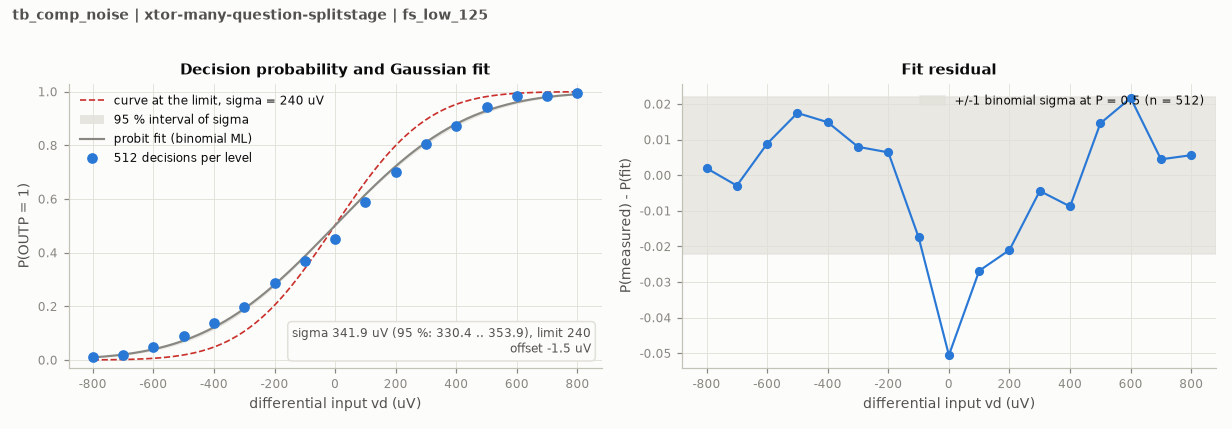
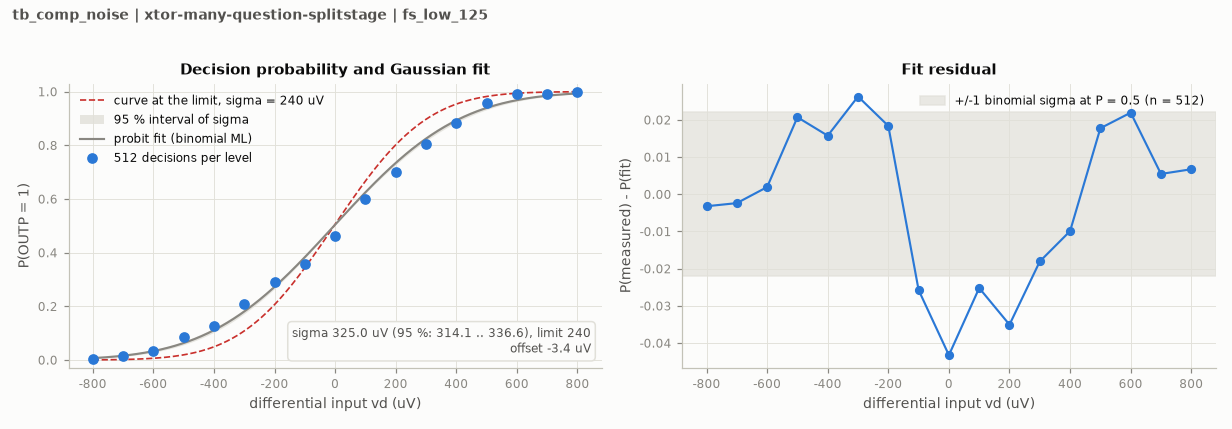
Preserve A6 FS noise failure and statistical audit

diff --git a/design/xtor/adc_comp/many-question-splitstage/A6-NOISE.md b/design/xtor/adc_comp/many-question-splitstage/A6-NOISE.md
@@ -1,0 +1,41 @@
+# A6 full FS physical-noise gate: FAIL
+
+A6's one authorized FS/low/125 physical-noise job completed naturally with **325.0388413768936 uV rms**, exceeding CMP-13's **240 uV** limit. Its model-conditional 95% profile interval is **314.05764906285185–336.55596519873524 uV**. The statistical audit flags a Gaussian/binomial fit limitation, detailed below; the official estimate and FAIL are preserved without removing samples, changing the model used for qualification, or retrying.
+
+Work is paused under [issue 124](https://github.com/many-question/ADC-12b-100M/issues/124). No TT noise, other noise corners, mismatch, new diagnostics or electrical variants follow this result. A6 remains `wip` and unqualified. [The historical noise-delay audit](HISTORICAL-NOISE-DELAY-AUDIT.md) presents the alternatives and auxiliary constraints for top-level decisions.
+
+| Measurement | Result |
+|---|---:|
+| Full physical differential input-referred noise | 325.0388413768936 uV rms — FAIL |
+| Model-conditional 95% profile CI | 314.05764906285185–336.55596519873524 uV |
+| Signed systematic offset | -0.003407580757166038 mV |
+| CMP-02 absolute offset, 2 mV limit | PASS |
+| Samples | 8704 finite; 512 at each of 17 levels |
+| Simulator return code / error count | 0 / 0 |
+| Accepted transient steps | 2451799 |
+| Spectre elapsed / CPU | 852 / 838 s |
+| Wrapper elapsed | 855 s |
+
+Increasing input levels are -800 through +800 uV in 100 uV steps. Exact positive-output counts are `[2, 7, 18, 43, 65, 106, 149, 183, 236, 307, 358, 413, 452, 490, 507, 507, 512]`, each out of 512. Sample indices are contiguous 1–8704, timestamps are monotonic and match the expected 400 ps sequence, and minimum sampled absolute differential output is 0.8060762998482 V. The sampler contains differential output only; it does not independently establish per-output CMP-15 or continuous SOA coverage. Those deterministic results retain their separate [A6 screen scope](A6-SCREEN.md). Systematic offset here is not mismatch Monte Carlo.
+
+## Statistical audit and comparison limits
+
+Independent Powell optimization in microvolt coordinates and an independent profile-likelihood interval reproduce the official fit within 0.000003 uV. This verifies numerical optimization, not the physical statistical assumptions.
+
+Binomial deviance is **42.50490064179345** on 15 degrees of freedom, with approximate asymptotic **p = 0.00018786192986467625**; Pearson statistic is 36.13409820607994, and maximum absolute standardized residual is 2.8326127934419976. The S-curve residual pattern warrants a model-fit warning. Sparse extreme bins and any sample dependence also limit the asymptotic p value. The quoted CI assumes the Gaussian-CDF/binomial model and cannot be described as a validated unconditional physical-noise uncertainty bound.
+
+Descriptive pooled correlations within each input level are lag1 **0.04269873956225544**, lag2 0.010281185775788813, lag4 0.0010598083305921495, lag8 0.007962253400849379 and lag16 -0.019268652839432028. These do not prove IID sampling. First/second within-level halves give 330.0944902938652 / 319.89325440025067 uV, with overlapping conditional intervals [314.50145557375726, 346.7827176834279] / [304.7242517540172, 336.11268336908563] uV. All official 512 samples per level are retained; the halves are descriptive and do not replace the official result.
+
+A5 measured 341.8605253429254 uV on the matched full protocol, versus A6's 325.0388413768936 uV. This is a lower single-seed point estimate, **not a statistically established improvement**: the conditional intervals overlap, A6 has the model-fit warning above, and adaptive integration changes stochastic trajectories despite the same seed. It does not isolate second-pair noise or justify subtracting squared widths as a component-noise measurement. Both sources fail 240 uV.
+
+## Exact source, protocol and evidence closure
+
[1 lines of base64/hex data omitted]
+
+The official and staged testbenches are byte-identical to the A5 parent; normalized decks, global parameters and 47 shared staged dependencies match. The main reference is `88654d672044eee754472d1c2c8a0dee2e76d81e`, comparator specification 0.9.0. Transistor view, physical device noise and seed 1 are enabled; no source masks or added ideal noise sources are present. Exactly one invocation ran, with APS and single-job concurrency; no explicit multithreading override was used.
+
+Actual settings from the log: conservative, gear2only, reltol 1e-4, voltage/current abstol 1e-6 V / 1e-12 A, relref alllocal, lteratio 10, noisefmax 50 GHz, implicit noisefmin 287.216 kHz, stop/outputstart 3.4817 us, useprevic=no and skipdc=no. The default 34.817 ns maxstep is a ceiling; mean accepted step is about 1.42006 ps. The sampler-only explicit-save policy is identical to the matched parent. All seven simulator warnings and five notices remain in the original log; no errors occurred.
+
[1 lines of base64/hex data omitted]
+
+The original recorder refreshed only the FS noise result and its plot. Its displayed CI rounds to [314.06, 336.56] uV; the unrounded values above are retained from the original decisions. The previous A5 result was backed up before recording, and A5-NOISE.md remains unchanged. No old TT, other-corner noise or mismatch record qualifies A6.

diff --git a/design/xtor/adc_comp/many-question-splitstage/HISTORICAL-NOISE-DELAY-AUDIT.md b/design/xtor/adc_comp/many-question-splitstage/HISTORICAL-NOISE-DELAY-AUDIT.md
@@ -1,8 +1,8 @@
 # Historical comparator noise and delay audit
 
-This read-only audit supports [issue 124](https://github.com/many-question/ADC-12b-100M/issues/124). Noise and delay take priority; conflicting auxiliary requirements need a top-level decision. No specification is changed, no source is promoted, and no new simulation is authorized by this report. Only the already dispatched A6 FS physical-noise job may finish and be archived. TT noise, additional corners, mismatch, diagnostics and new variants remain paused.
+This read-only audit supports [issue 124](https://github.com/many-question/ADC-12b-100M/issues/124). Noise and delay take priority; conflicting auxiliary requirements need a top-level decision. No specification is changed, no source is promoted, and no new simulation is authorized by this report. The already dispatched A6 FS physical-noise job has now finished and been archived; no further job follows. TT noise, additional corners, mismatch, diagnostics and new variants remain paused.
 
-The completed evidence below contains **no full 45-corner physical-noise pass and no demonstrated full-physical FS/low/125 result at or below 240 uV**. A TT pass cannot establish either. Historical raw retention varies; pinned reports and records are evidence of completed measurements, not a promise that every old waveform remains available. A6 is reported separately when its pending run is audited.
+The completed evidence below contains **no full 45-corner physical-noise pass and no demonstrated full-physical FS/low/125 result at or below 240 uV**. A TT pass cannot establish either. Historical raw retention varies; pinned reports and records are evidence of completed measurements, not a promise that every old waveform remains available. [A6 has now completed at 325.0388413768936 uV with a model-fit warning and an official FAIL](A6-NOISE.md); it does not change that conclusion.
 
 ## Full physical TT noise evidence
 

diff --git a/design/xtor/adc_comp/many-question-splitstage/README.md b/design/xtor/adc_comp/many-question-splitstage/README.md
@@ -1,6 +1,8 @@
 # Split-stage comparator A6
 
-**A6 passes its four-job TT/SF/FS deterministic and TT loading screen; physical noise is untested.** Only MSIP/MSIN change W4/nf4 to W6/nf6 using complete callback geometry; all connections and remaining devices stay A5. TT d30=47.149668074361 ps (2.850331925639 ps margin); all three delay corners are36/36 correct/reset with CMP-15 and120-pair SOA passing. See [A6 measurements and mechanism](A6-SCREEN.md). A5 results below are historical and cannot qualify A6; old SS/FF/noise records remain stale.
+**A6 fails full FS physical noise: 325.0388413768936 uV rms versus 240 uV.** Its conditional 95% interval is 314.05764906285185–336.55596519873524 uV, with a Gaussian/binomial fit warning. See [the complete A6 noise audit](A6-NOISE.md). Work is paused under [issue 124](https://github.com/many-question/ADC-12b-100M/issues/124); [historical noise-delay tradeoffs](HISTORICAL-NOISE-DELAY-AUDIT.md) retain exact-source alternatives. No TT noise, further corners, mismatch, new diagnostics or variants were dispatched.
+
+**A6 passes its four-job TT/SF/FS deterministic and TT loading screen.** Only MSIP/MSIN change W4/nf4 to W6/nf6 using complete callback geometry; all connections and remaining devices stay A5. TT d30=47.149668074361 ps (2.850331925639 ps margin); all three delay corners are36/36 correct/reset with CMP-15 and120-pair SOA passing. See [A6 measurements and mechanism](A6-SCREEN.md). A5 results below are historical and cannot qualify A6; old SS/FF and other noise records remain stale; only the completed A6 FS noise record was subsequently refreshed.
 
 **A5 fails the full FS physical-noise gate:** 341.8605253429254 uV rms (95% CI 330.4249508199212–353.8682080578653 uV), above the 240 uV limit. See [the retained FS noise result](A5-NOISE.md). TT noise was not dispatched. Status remains `wip`, with deterministic passes and all earlier failures preserved.
 
